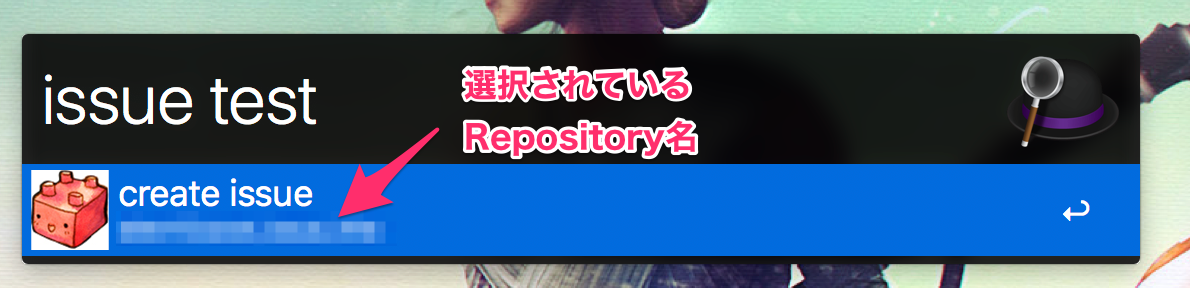
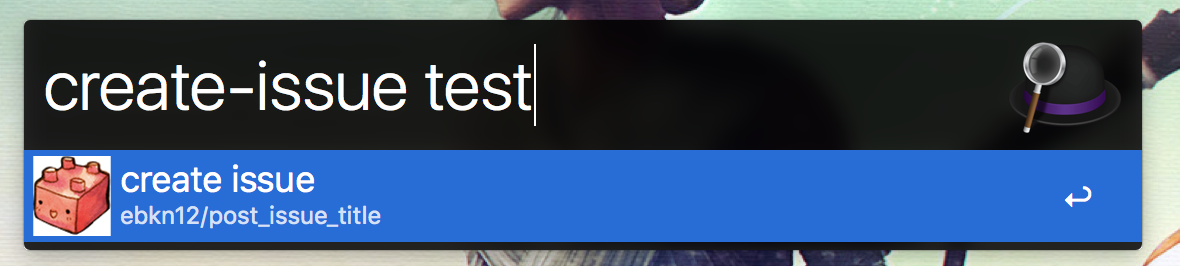
modify README and add issues tree

diff --git a/README.md b/README.md
@@ -33,7 +33,7 @@ repo issueを作りたいRepository
 ## issue作成
 
 ```
-issue issueの名前
+create-issue issueの名前
 ```
 
 ![create issue]('./images/create_issue.png')
